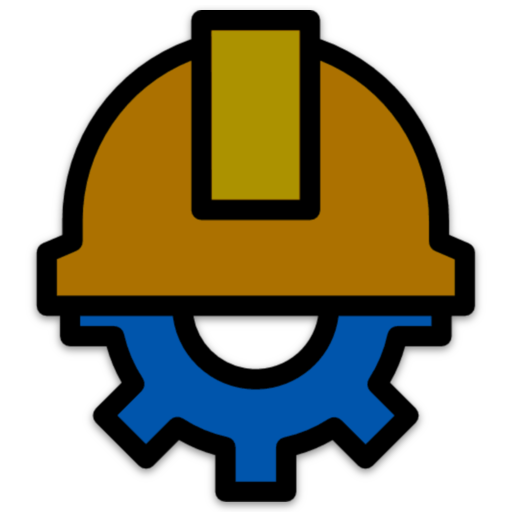
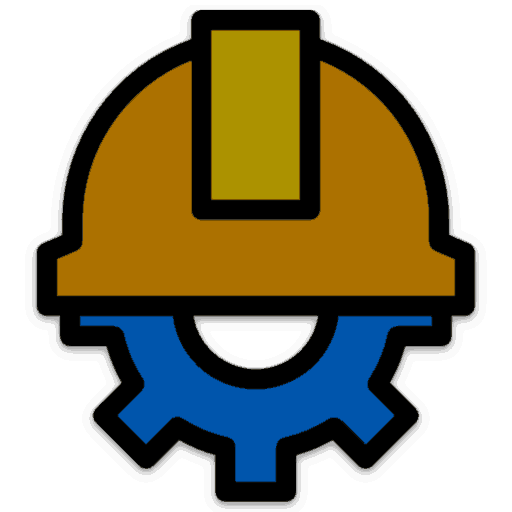
Compress png size

Changed region(s): [[0.0938, 0.4375, 0.125, 0.4688]]

diff --git a/src/app.html b/src/app.html
@@ -8,15 +8,13 @@
     <link href="https://fonts.googleapis.com/css2?family=Roboto:wght@300&display=swap" rel="stylesheet">
     <meta content="width=device-width, initial-scale=1" name="viewport"/>
 
-    <link href="%sveltekit.assets%/favicon.ico" rel="icon"/>
+    <link href="%sveltekit.assets%/favicon.ico" rel="icon" sizes="any"/>
 
     <link href="%sveltekit.assets%/apple-touch-icon.png" rel="apple-touch-icon" sizes="180x180">
-    <link href="%sveltekit.assets%/favicon-32x32.png" rel="icon" sizes="32x32" type="image/png">
-    <link href="%sveltekit.assets%/favicon-16x16.png" rel="icon" sizes="16x16" type="image/png">
     <link href="%sveltekit.assets%/site.webmanifest" rel="manifest">
     <link color="#1953b1" href="%sveltekit.assets%/safari-pinned-tab.svg" rel="mask-icon">
     <meta content="/" name="msapplication-starturl"/>
-    <meta content="#2d89ef" name="msapplication-TileColor">
+    <meta content="#1469b8" name="msapplication-TileColor">
     <meta content="#ffffff" name="theme-color">
     %sveltekit.head%
 </head>

diff --git a/src/routes/+layout.svelte b/src/routes/+layout.svelte
@@ -92,7 +92,7 @@
             <div class="mr-auto mb-2">
                 <a class="is-inline-block" href="/">
                     <img alt="Logo du site, casque de chantier sur un engrenage" class="image"
-                         src="$lib/assets/favicon_32x32.webp" width="32px">
+                         height="32" src="$lib/assets/favicon_32x32.webp" width="32">
                 </a>
             </div>
             <div>
@@ -136,7 +136,7 @@
 
             {#if deferredInstallEvent}
                 <div class="ml-auto centered">
-                    <button class="install-button button is-primary is-light" on:click={handleInstall}>
+                    <button class="install-button button is-primary" on:click={handleInstall}>
                         Installer
                     </button>
                 </div>
